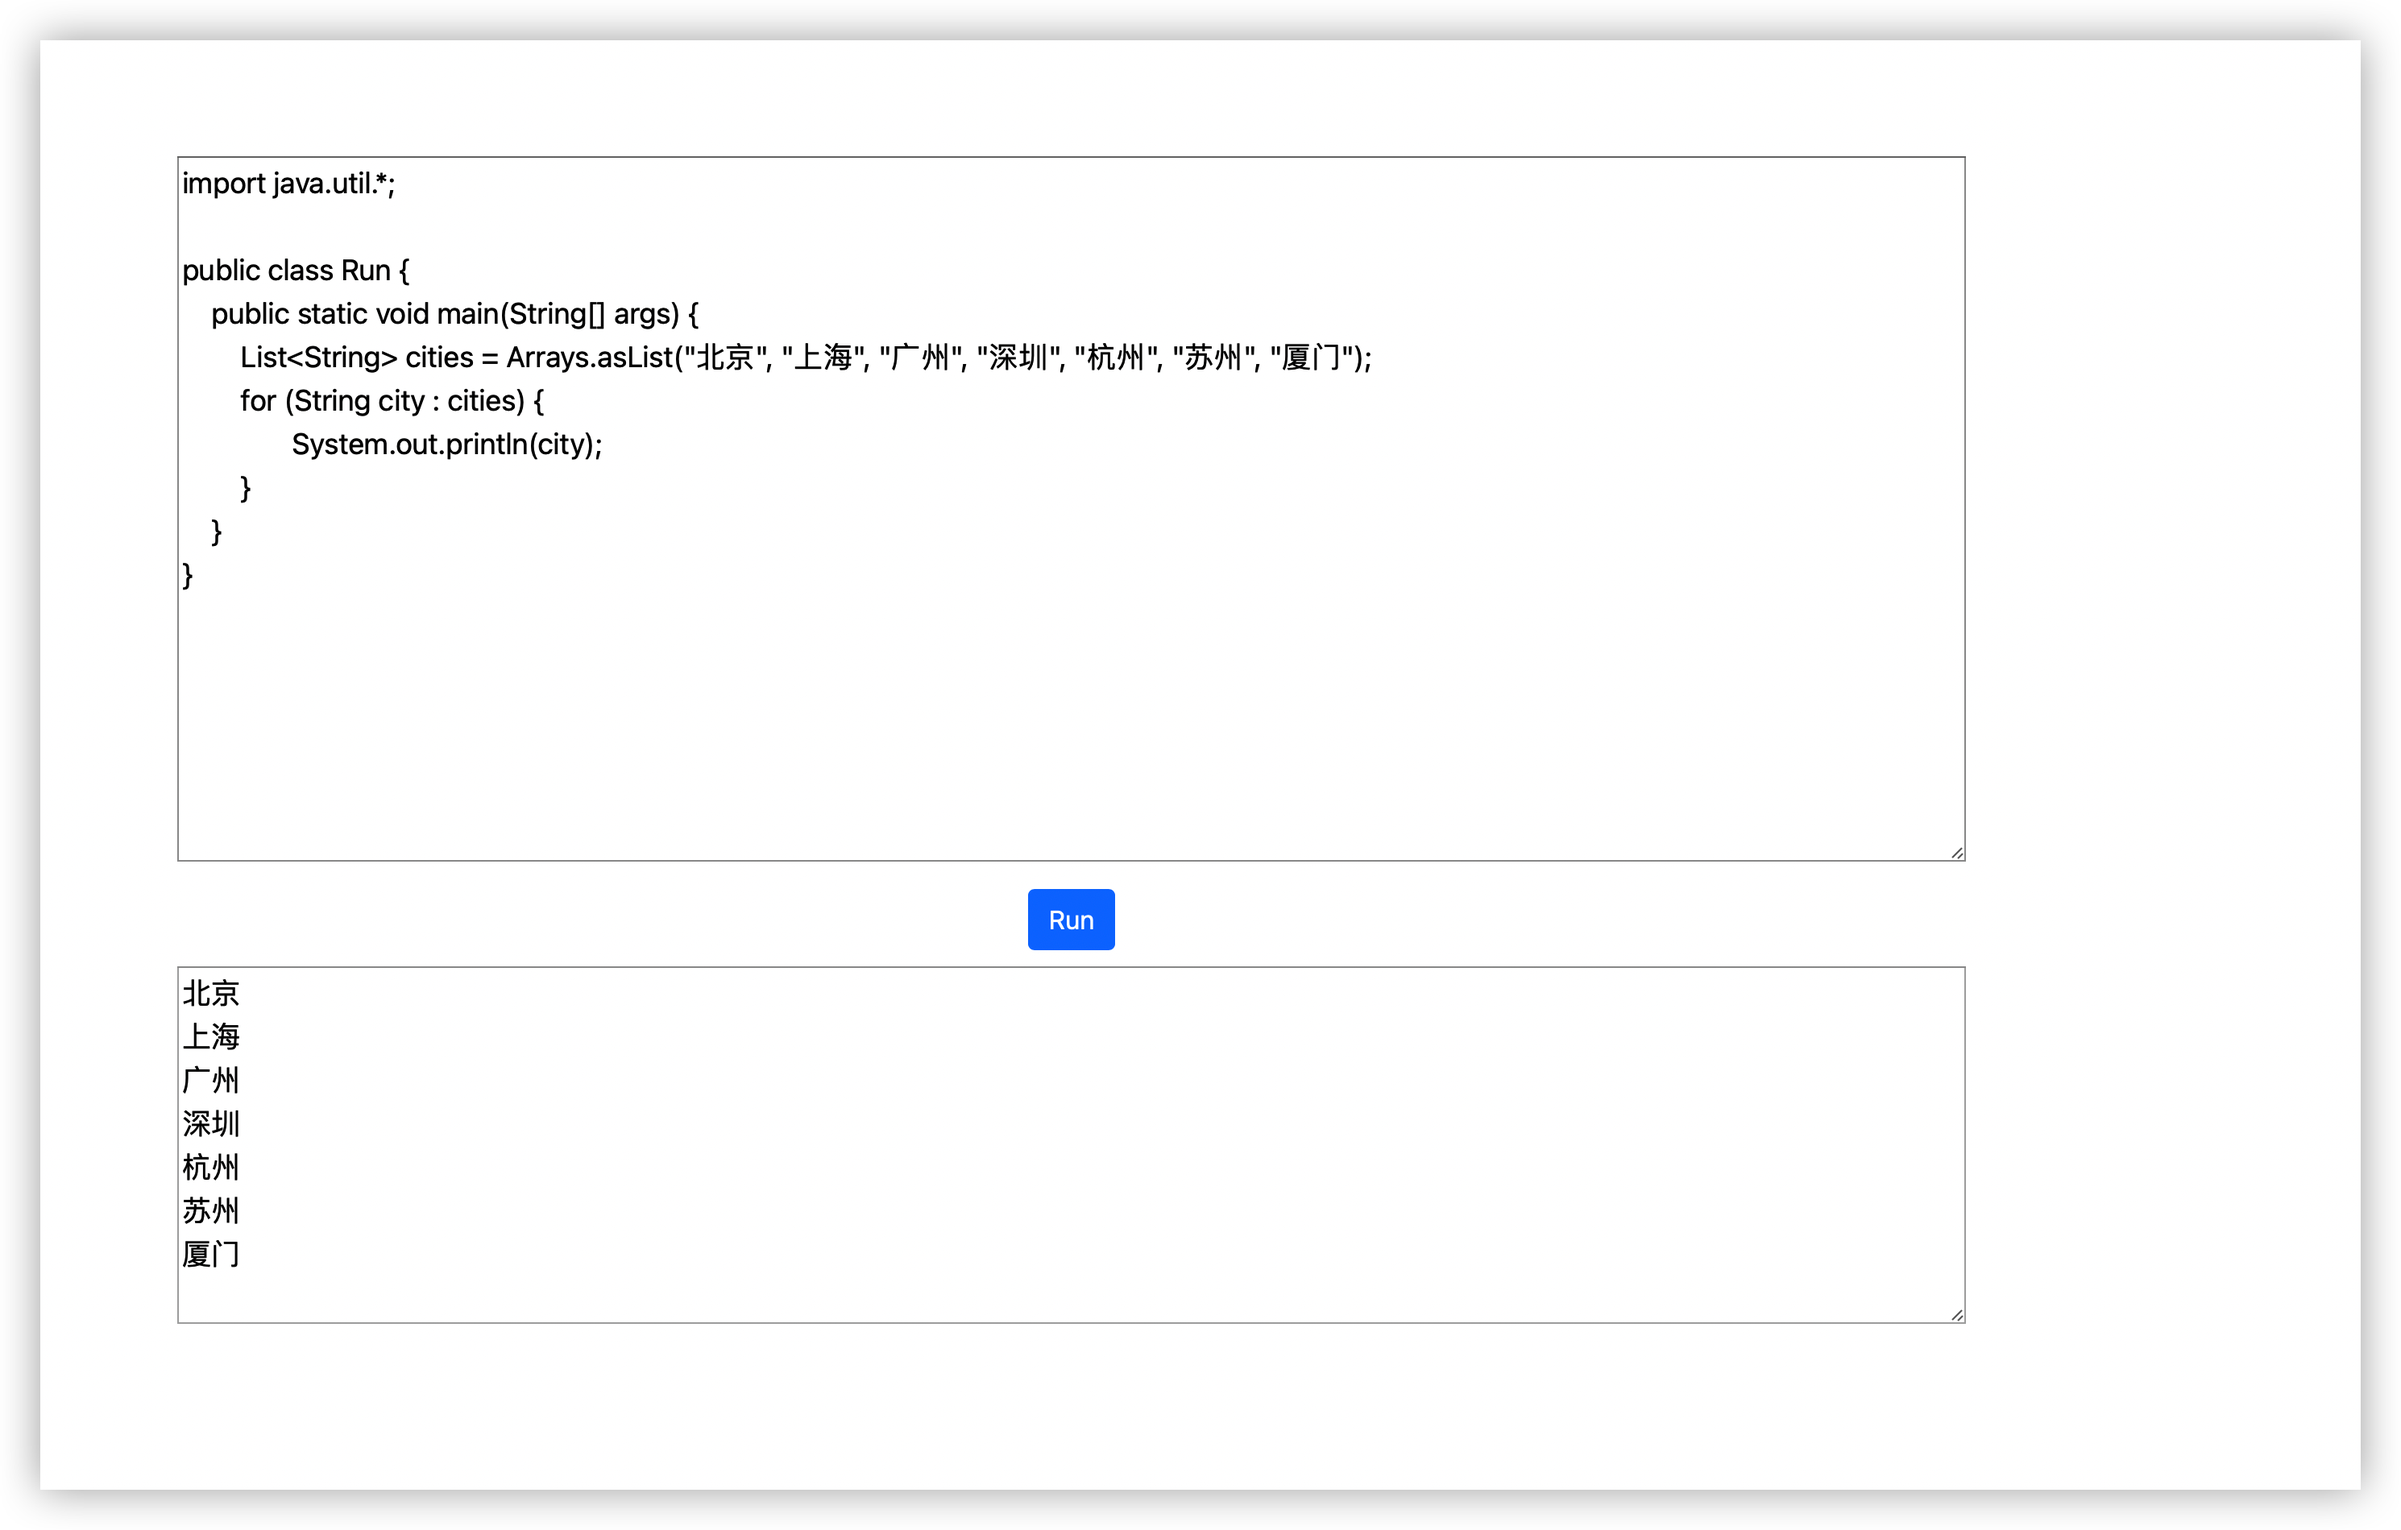
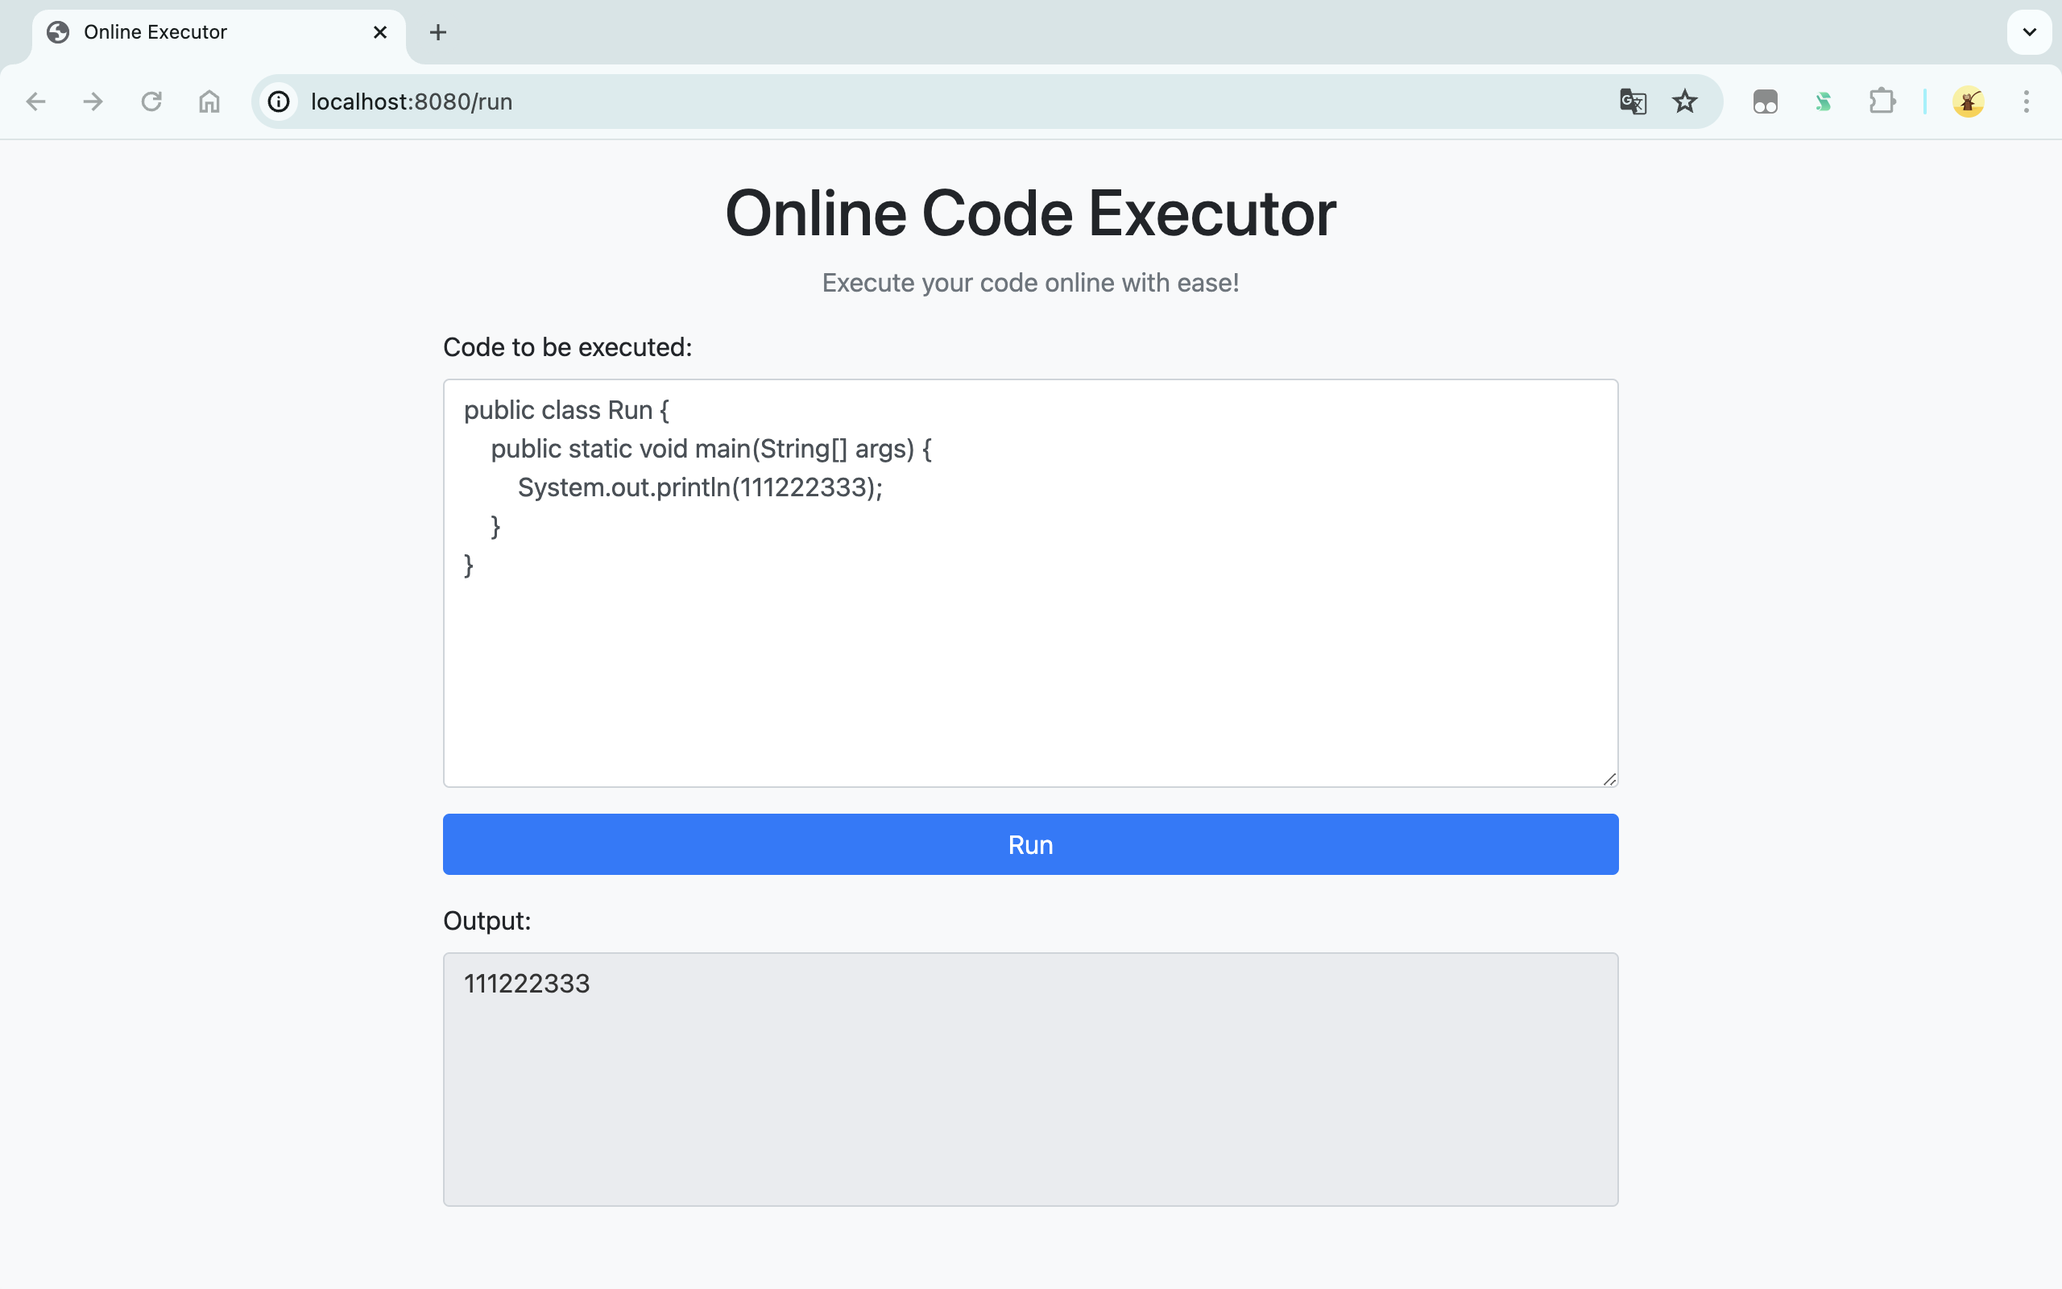
使用gpt优化前端样式

diff --git a/src/main/resources/templates/executor.html b/src/main/resources/templates/executor.html
@@ -4,43 +4,71 @@
     <meta charset="UTF-8">
     <title>Online Executor</title>
     <link href="https://maxcdn.bootstrapcdn.com/bootstrap/4.0.0/css/bootstrap.min.css" rel="stylesheet">
+    <link href="https://unpkg.com/codeflask/build/codeflask.min.css" rel="stylesheet">
+    <style>
+        body {
+            background-color: #f8f9fa;
+        }
+        .container {
+            margin-top: 20px;
+        }
+        .output textarea {
+            background-color: #f1f1f1;
+            color: #333;
+            resize: none;
+        }
+        textarea {
+            font-size: 14px;
+        }
+    </style>
 </head>
 <body>
-<div class="container" style="text-align:center; font-size: 18px; margin: 20px 70px 70px;">
-    <div class="form">
-        <form action="/run" method="post">
-            <div style="margin: 10px auto">
-                <textarea id="code" name="code" style="width: 100%;" rows="16"
-                          placeholder="The Code to be executed!" th:text="*{code}"></textarea>
+<div class="container">
+    <h1 class="text-center">Online Code Executor</h1>
+    <p class="text-center text-muted">Execute your code online with ease!</p>
+    <div class="row justify-content-center">
+        <div class="col-md-10 col-lg-8">
+            <div class="form">
+                <form action="/run" method="post">
+                    <div class="form-group">
+                        <label for="code">Code to be executed:</label>
+                        <textarea id="code" name="code" class="form-control" rows="10"
+                                  placeholder="The Code to be executed!" th:text="*{code}"></textarea>
+                    </div>
+                    <button type="submit" class="btn btn-primary btn-block">Run</button>
+                </form>
             </div>
-            <input class="btn btn-primary" type="submit" value="Run"/>
-        </form>
-    </div>
-
-    <!-- IF CUSTOMER IS ANONYMOUS -->
-    <div class="output" style="margin-top: 10px">
-        <textarea style="width: 100%;" readonly th:text="*{output}" rows="8"></textarea>
+            <div class="output mt-3">
+                <label for="output">Output:</label>
+                <textarea id="output" class="form-control" readonly th:text="*{output}" rows="6"></textarea>
+            </div>
+        </div>
     </div>
 </div>
-<script href="https://unpkg.com/codeflask/build/codeflask.min.js"></script>
+<script src="https://unpkg.com/codeflask/build/codeflask.min.js"></script>
 <script>
+    var flask = new CodeFlask('#code', {
+        language: 'js',
+        lineNumbers: true
+    });
+
+    flask.onUpdate((code) => {
+        document.querySelector('textarea[name="code"]').value = code;
+    });
+
     document.getElementById('code').addEventListener('keydown', function(e) {
         if (e.key == 'Tab') {
             e.preventDefault();
             var start = this.selectionStart;
             var end = this.selectionEnd;
 
-            // set textarea value to: text before caret + tab + text after caret
             this.value = this.value.substring(0, start) +
                 "\t" + this.value.substring(end);
 
-            // put caret at right position again
             this.selectionStart =
                 this.selectionEnd = start + 1;
         }
     });
 </script>
-
-
 </body>
 </html>
